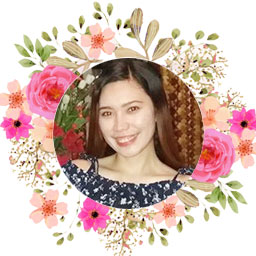
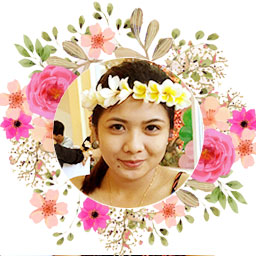
Add existing file2

Changed region(s): [[0.1875, 0.2188, 0.8125, 0.8438], [0.1875, 0.9688, 0.8438, 1.0]]

diff --git a/resources/views/welcome.blade.php b/resources/views/welcome.blade.php
@@ -153,7 +153,7 @@
                 <div class="story-elem col-sm-4 col-sm-offset-2" data-animation-direction="from-left" data-animation-delay="100">
                     <div class="balloon-left" data-animation-direction="from-bottom" data-animation-delay="600">I do!</div>
                     <div class="image">
-                        <img src="http://placehold.it/750x750" alt="" />
+                        <img src="{{ \Illuminate\Support\Facades\URL::asset('lilac/images/bride.jpg') }}" alt="" />
                         <div class="hover-info">
                             <ul class="sn-icons">
                                 <li><a href="#" title="Facebook"><i class="fa fa-facebook"></i></a></li>
@@ -168,7 +168,7 @@
                 <div class="story-elem col-sm-4" data-animation-direction="from-right" data-animation-delay="100">
                     <div class="balloon-right" data-animation-direction="from-bottom" data-animation-delay="900">Me too!</div>
                     <div class="image">
-                        <img src="http://placehold.it/750x750" alt="" />
+                        <img src="{{ \Illuminate\Support\Facades\URL::asset('lilac/images/groom.jpg') }}" alt="" />
                         <div class="hover-info">
                             <ul class="sn-icons">
                                 <li><a href="#" title="Facebook"><i class="fa fa-facebook"></i></a></li>
@@ -411,17 +411,17 @@
                         <div class="item" data-animation-direction="from-bottom" data-animation-delay="250">
                             <div class="image">
                                 <a href="#" class="info">
-                                    <h3>Rubie</h3>
+                                    <h3>Rubie Mae Navales</h3>
                                     <span class="title">Maid of honour</span>
                                 </a>
-                                <img src="{{ \Illuminate\Support\Facades\URL::asset('lilac/images/brides-maid4.jpg') }}" alt="" />
+                                <img src="{{ \Illuminate\Support\Facades\URL::asset('lilac/images/brides-maid1.jpg') }}" alt="" />
                             </div>
                         </div>
 
                         <div class="item" data-animation-direction="from-bottom" data-animation-delay="450">
                             <div class="image">
                                 <a href="#" class="info">
-                                    <h3>Floralyn</h3>
+                                    <h3>Nina Marie Navales</h3>
                                     <span class="title">Bridesmaid</span>
                                 </a>
                                 <img src="{{ \Illuminate\Support\Facades\URL::asset('lilac/images/brides-maid2.jpg') }}" alt="" />
@@ -431,7 +431,7 @@
                         <div class="item" data-animation-direction="from-bottom" data-animation-delay="650">
                             <div class="image">
                                 <a href="#" class="info">
-                                    <h3>Nina Marie</h3>
+                                    <h3>Sarah Mae Navales</h3>
                                     <span class="title">Bridesmaid</span>
                                 </a>
                                 <img src="{{ \Illuminate\Support\Facades\URL::asset('lilac/images/brides-maid3.jpg') }}" alt="" />
@@ -441,17 +441,17 @@
                         <div class="item" data-animation-direction="from-bottom" data-animation-delay="850">
                             <div class="image">
                                 <a href="#" class="info">
-                                    <h3>Elaine Mae</h3>
+                                    <h3>Floralyn Navales</h3>
                                     <span class="title">Bridesmaid</span>
                                 </a>
-                                <img src="{{ \Illuminate\Support\Facades\URL::asset('lilac/images/brides-maid1.jpg') }}" alt="" />
+                                <img src="{{ \Illuminate\Support\Facades\URL::asset('lilac/images/brides-maid4.jpg') }}" alt="" />
                             </div>
                         </div>
 
                         <div class="item">
                             <div class="image">
                                 <a href="#" class="info">
-                                    <h3>Sarah Mae</h3>
+                                    <h3>Sidney Sedale King</h3>
                                     <span class="title">Bridesmaid</span>
                                 </a>
                                 <img src="{{ \Illuminate\Support\Facades\URL::asset('lilac/images/brides-maid5.jpg') }}" alt="" />
@@ -461,7 +461,7 @@
                         <div class="item">
                             <div class="image">
                                 <a href="#" class="info">
-                                    <h3>Sidney</h3>
+                                    <h3>Elaine Mae Chua</h3>
                                     <span class="title">Bridesmaid</span>
                                 </a>
                                 <img src="{{ \Illuminate\Support\Facades\URL::asset('lilac/images/brides-maid6.jpg') }}" alt="" />
@@ -475,18 +475,8 @@
                         <div class="item">
                             <div class="image">
                                 <a href="#" class="info">
-                                    <h3>Louise Namoc</h3>
+                                    <h3>Lawrence George Namoc</h3>
                                     <span class="title">Best man</span>
-                                </a>
-                                <img src="http://placehold.it/256x256" alt="" />
-                            </div>
-                        </div>
-
-                        <div class="item">
-                            <div class="image">
-                                <a href="#" class="info">
-                                    <h3>Robert Vencint</h3>
-                                    <span class="title">Groomsmen</span>
                                 </a>
                                 <img src="{{ \Illuminate\Support\Facades\URL::asset('lilac/images/grooms-men1.jpg') }}" alt="" />
                             </div>
@@ -495,7 +485,7 @@
                         <div class="item">
                             <div class="image">
                                 <a href="#" class="info">
-                                    <h3>James Arnold</h3>
+                                    <h3>Gabriel Nathaniel Dizon</h3>
                                     <span class="title">Groomsmen</span>
                                 </a>
                                 <img src="{{ \Illuminate\Support\Facades\URL::asset('lilac/images/grooms-men2.jpg') }}" alt="" />
@@ -505,20 +495,40 @@
                         <div class="item">
                             <div class="image">
                                 <a href="#" class="info">
-                                    <h3>Taylor Pierce</h3>
+                                    <h3>Robert Vencint Navales</h3>
                                     <span class="title">Groomsmen</span>
                                 </a>
-                                <img src="http://placehold.it/256x256" alt="" />
+                                <img src="{{ \Illuminate\Support\Facades\URL::asset('lilac/images/grooms-men3.jpg') }}" alt="" />
                             </div>
                         </div>
 
                         <div class="item">
                             <div class="image">
                                 <a href="#" class="info">
-                                    <h3>David Madison</h3>
+                                    <h3>Moon Ray Lo</h3>
                                     <span class="title">Groomsmen</span>
                                 </a>
-                                <img src="http://placehold.it/256x256" alt="" />
+                                <img src="{{ \Illuminate\Support\Facades\URL::asset('lilac/images/grooms-men4.jpg') }}" alt="" />
+                            </div>
+                        </div>
+
+                        <div class="item">
+                            <div class="image">
+                                <a href="#" class="info">
+                                    <h3>James Arnold Nogra</h3>
+                                    <span class="title">Groomsmen</span>
+                                </a>
+                                <img src="{{ \Illuminate\Support\Facades\URL::asset('lilac/images/grooms-men5.jpg') }}" alt="" />
+                            </div>
+                        </div>
+
+                        <div class="item">
+                            <div class="image">
+                                <a href="#" class="info">
+                                    <h3>John Ervyn Soriano</h3>
+                                    <span class="title">Groomsmen</span>
+                                </a>
+                                <img src="{{ \Illuminate\Support\Facades\URL::asset('lilac/images/grooms-men6.jpg') }}" alt="" />
                             </div>
                         </div>
                     </div>
